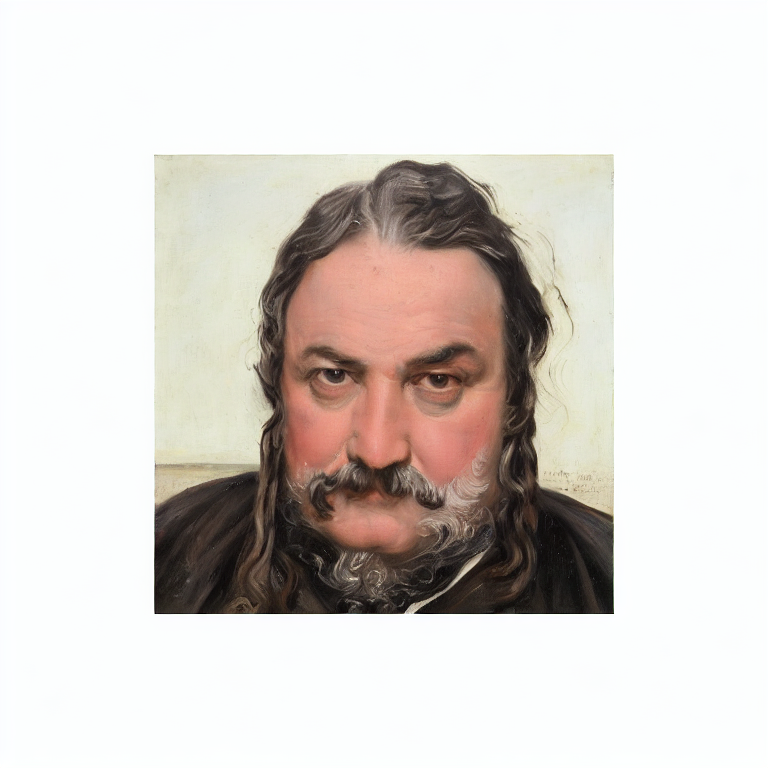
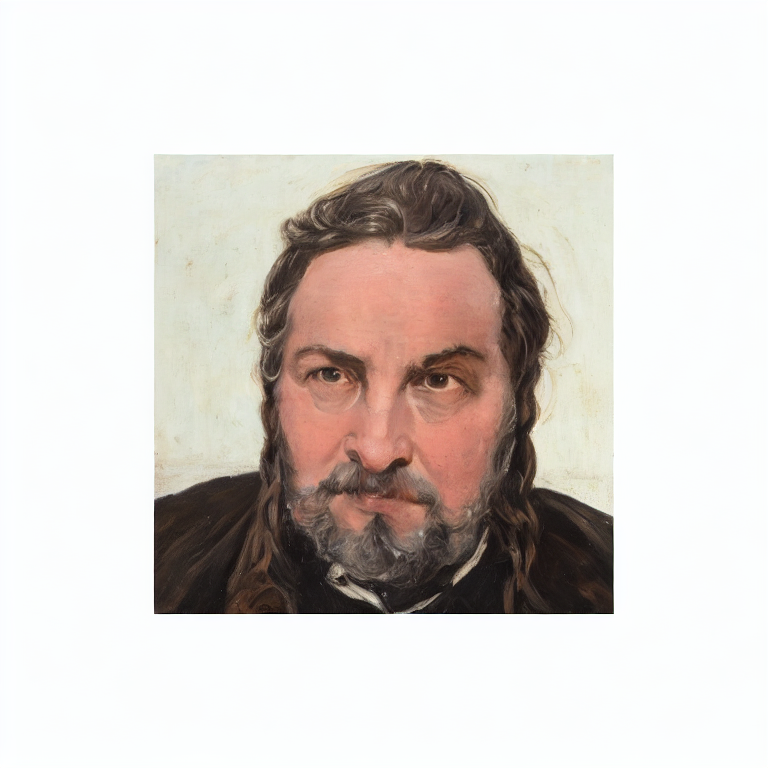
diffusions

Changed region(s): [[0.1875, 0.1875, 0.8125, 0.8125], [0.75, 0.5, 0.7812, 0.5312]]

diff --git a/gen-portrait-diffusion.py b/gen-portrait-diffusion.py
@@ -41,12 +41,20 @@ def generate_portrait():
         )
         pipe.to(device)
         
-        prompt = "A classical oil painting of a black cat, 18th-century style, dark background, Rembrandt lighting, realistic, old canvas texture"
+        #prompt = "A classical oil painting of Angel, 18th-century style, dark background, Rembrandt lighting, realistic, old canvas texture"
+        prompt = "A classical oil painting Wooman with 10 tits, 18th-century style, dark background, Rembrandt lighting, realistic, old canvas texture"
         logger.info(f"Generating image with prompt: {prompt}")
         
-        image = pipe(prompt).images[0]
+        # Встановлюємо більший розмір зображення (1024x1024)
+        image = pipe(
+            prompt,
+            height=1024,
+            width=1024,
+            num_inference_steps=100,
+            guidance_scale=7.5
+        ).images[0]
         
-        output_path = "generated_portrait_diffusion.png"
+        output_path = "generated_portrait_diffusion_1024.png"
         image.save(output_path)
         logger.info(f"Image saved to: {output_path}")
         
